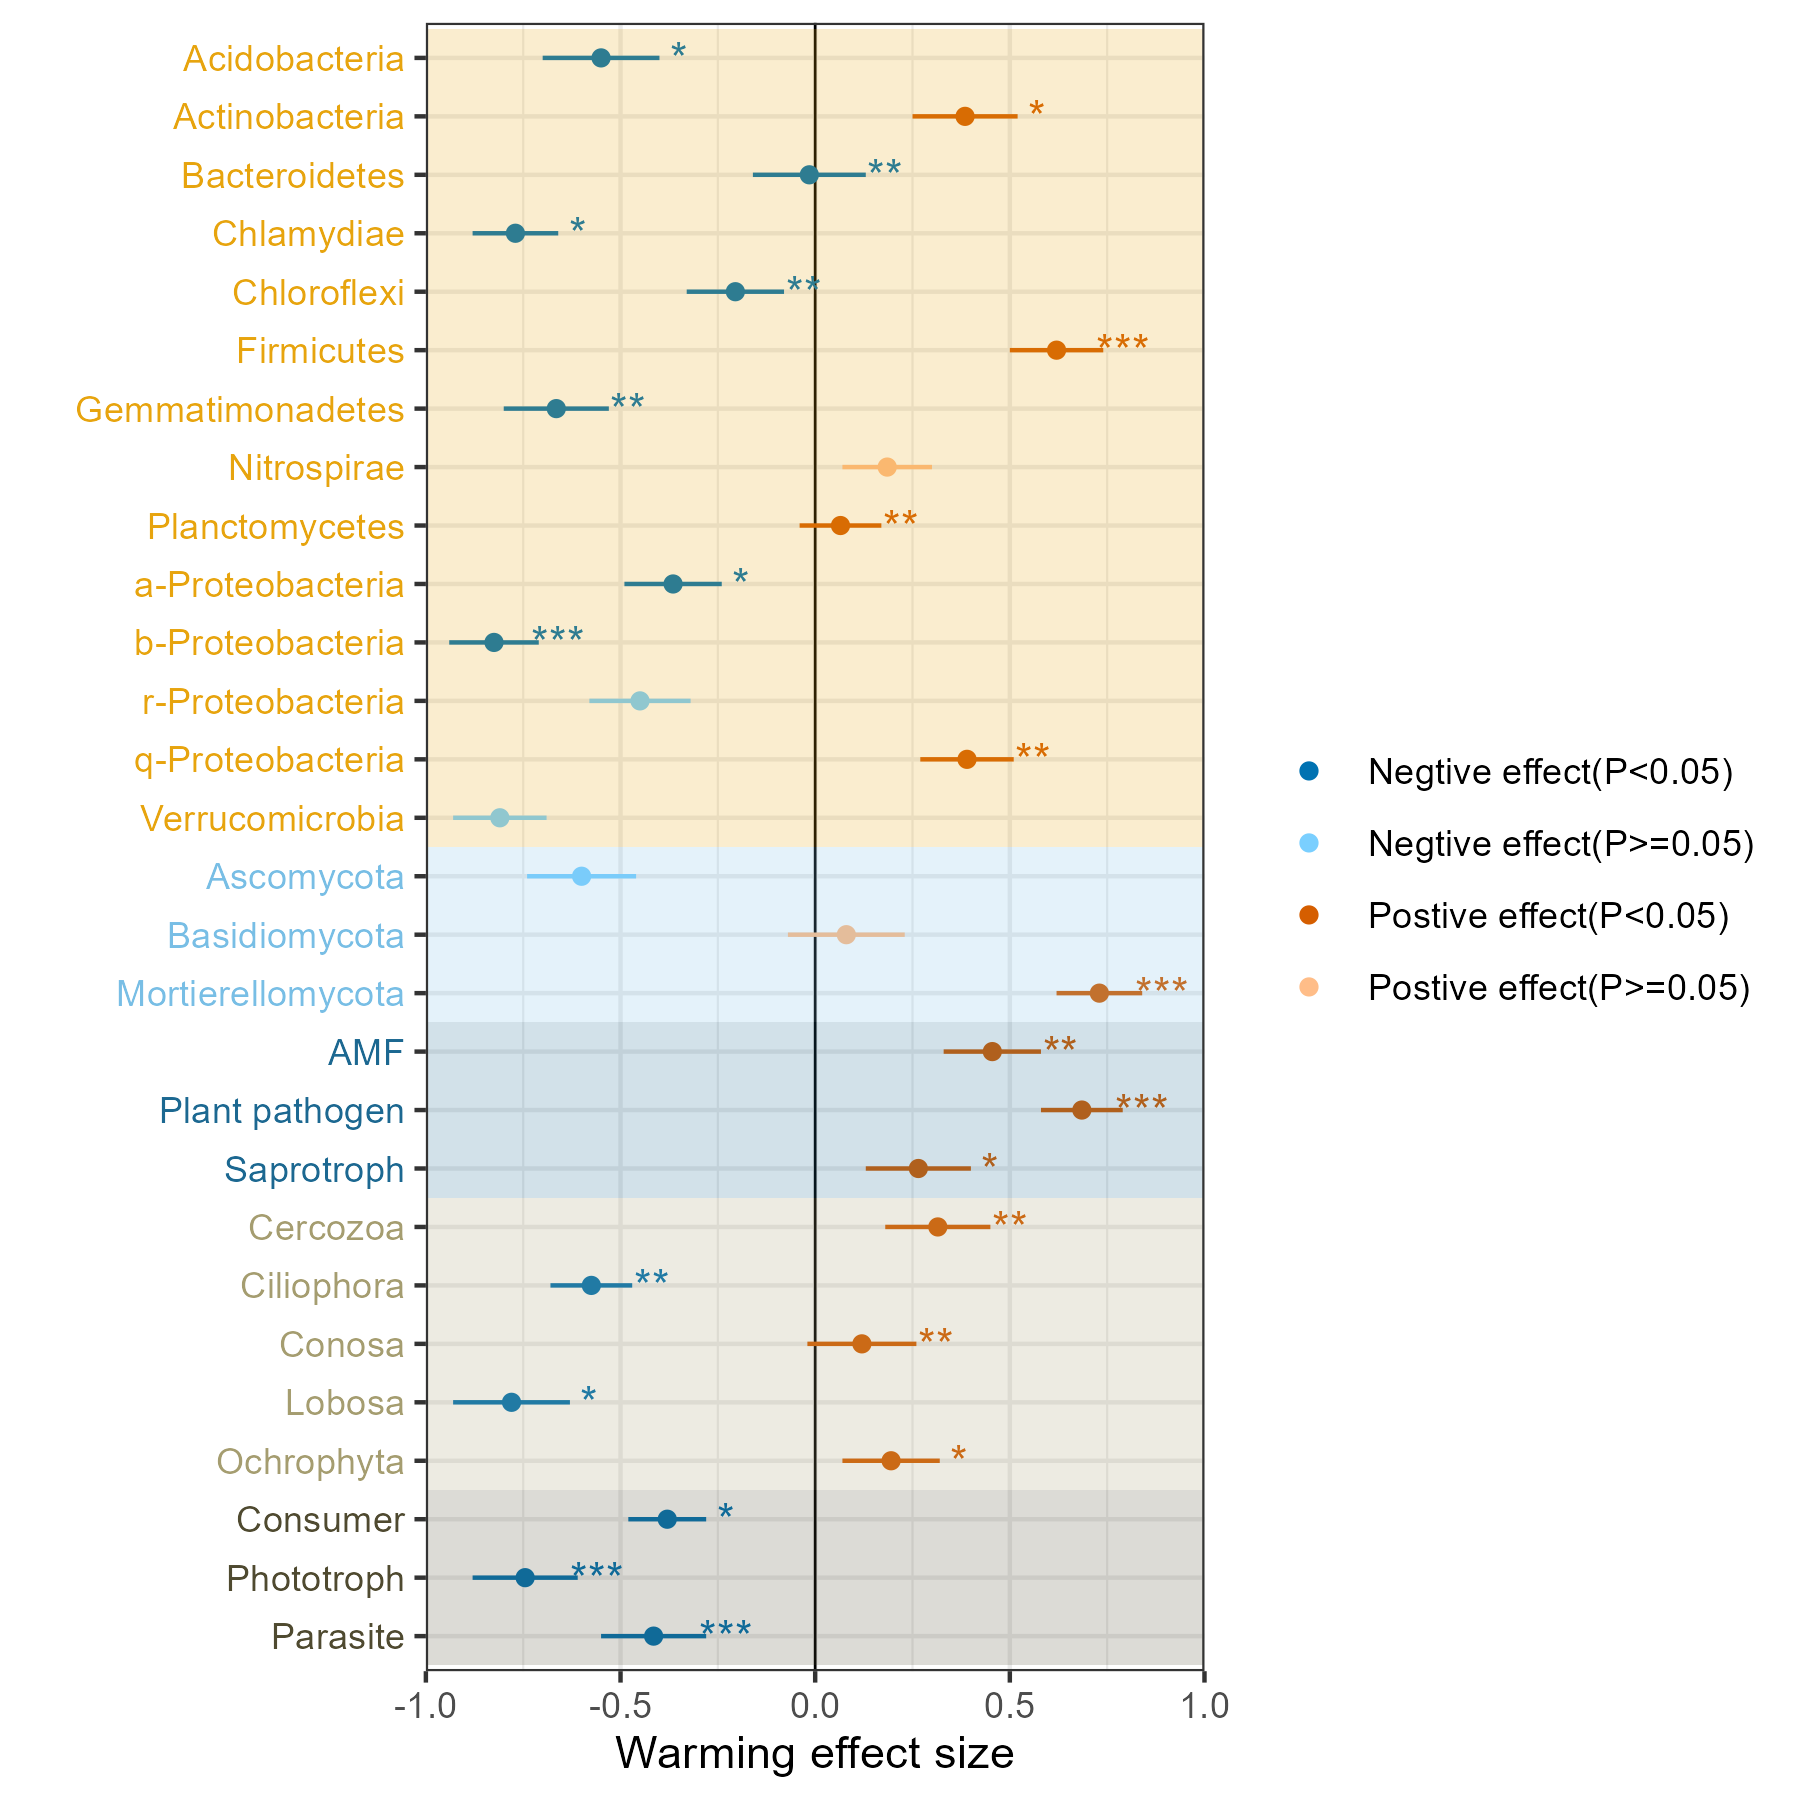
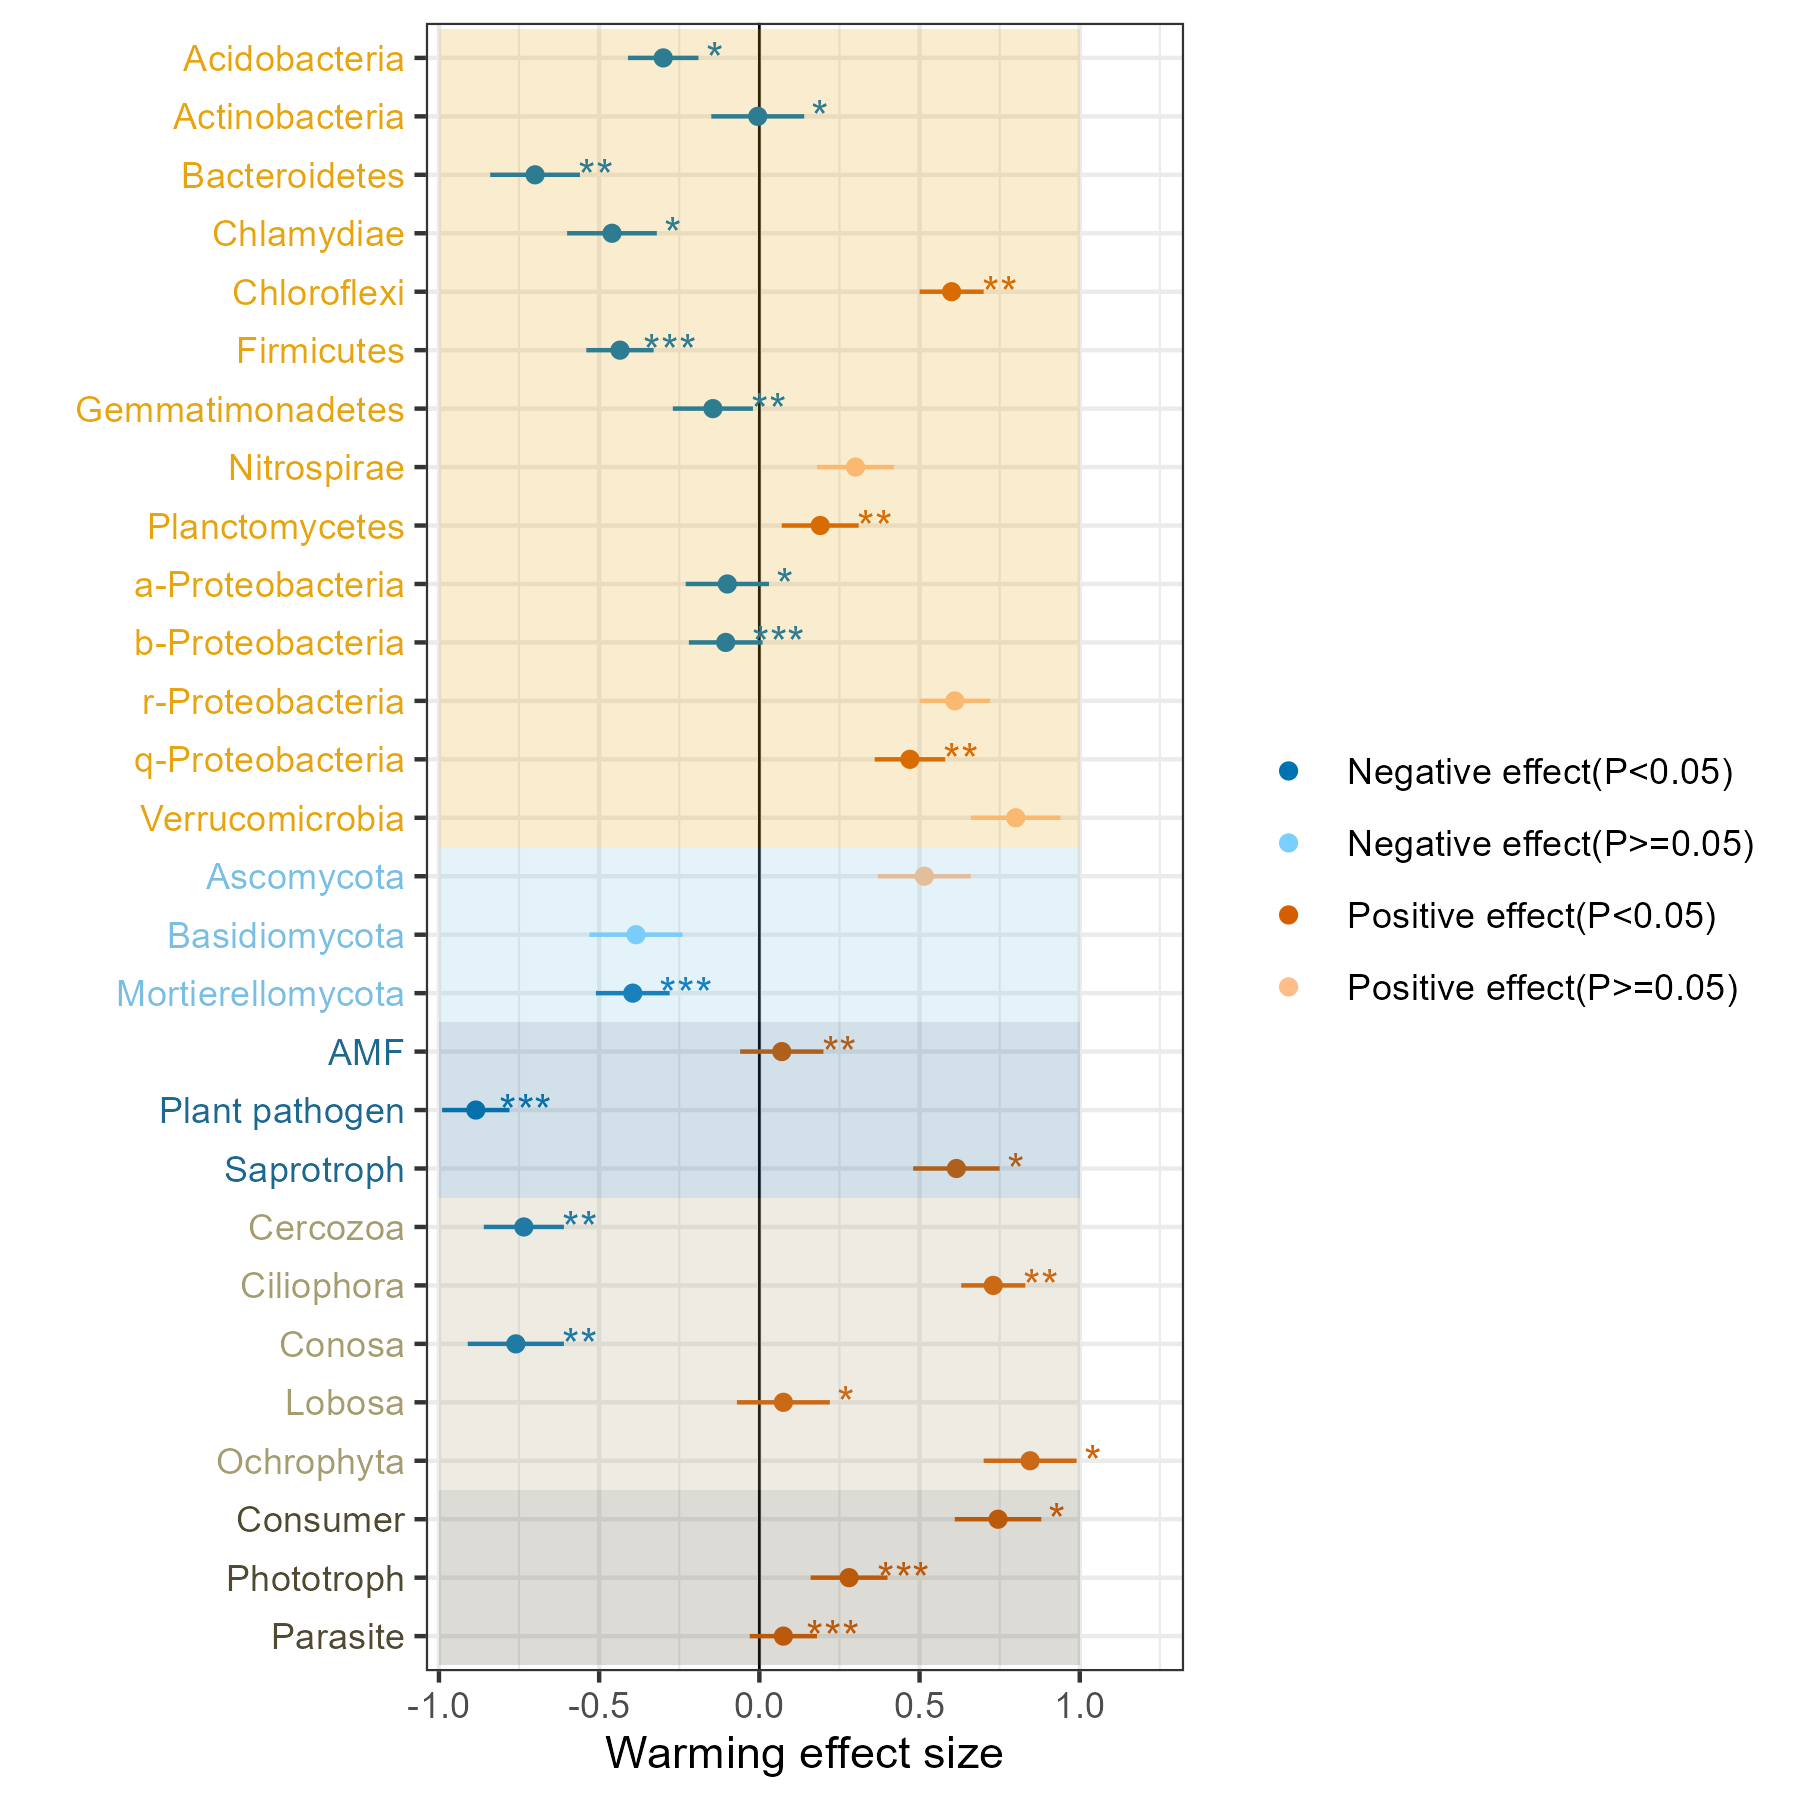
fix(forest-effect-dotplot): clean public text and repair preview

diff --git a/modules/forest-effect-dotplot/docs/doc-description.md b/modules/forest-effect-dotplot/docs/doc-description.md
@@ -1,22 +1,14 @@
 # 增温效应森林点距图
 
-## Purpose
+按微生物类群展示增温效应大小、区间和显著性。效应值由脚本随机生成。
 
-按类群展示增温效应大小、区间和显著性。
+## 应用
 
-## Visual structure
+-已有各类群效应估计和区间时，用翻转点距图比较正负效应。
+-不适合真正的 meta-analysis 森林图。
 
-翻转坐标的点距图；背景色带分组；颜色区分正负效应与显著性。
+## 数据
 
-## Data requirements
+rownames.csv 提供 28 个类群名。
 
-rownames.csv 提供 28 个类群名；效应值和 p 标记由脚本随机生成。
-
-## Recommended use
-
-本地查看该图类型的 ggplot2 实现；需要同类布局时可改数据后重跑 `code/organized.R`。
-
-## Limitations
-
-- min/med/max 与显著性符号每次运行都会变，预览只代表一次随机实现。
-- 不是原文统计模型复现。
+仅提供绘图示例；上游分析与科学结论未验证。

diff --git a/modules/forest-effect-dotplot/README.md b/modules/forest-effect-dotplot/README.md
@@ -2,4 +2,18 @@
 
 按微生物类群展示增温效应大小、区间和显著性。效应值由脚本随机生成。
 
-This module is an Open Figure Modules submission prepared from a Local Published release. SFL does not execute the code.
+## 应用
+
+-已有各类群效应估计和区间时，用翻转点距图比较正负效应。
+-不适合真正的 meta-analysis 森林图。
+
+## 数据
+
+rownames.csv 提供 28 个类群名。
+
+仅提供绘图示例；上游分析与科学结论未验证。
+
+
+## 运行核验
+
+发布者已使用现有 Pixi R 环境执行本模块绘图入口并检查本次生成预览。仅演示绘图层，未验证上游分析或科学结论。

diff --git a/modules/forest-effect-dotplot/description.md b/modules/forest-effect-dotplot/description.md
@@ -1,14 +1,14 @@
 # 增温效应森林点距图
 
-## 需求描述
-
 按微生物类群展示增温效应大小、区间和显著性。效应值由脚本随机生成。
 
-## 应用场景
+## 应用
 
 -已有各类群效应估计和区间时，用翻转点距图比较正负效应。
 -不适合真正的 meta-analysis 森林图。
 
-## 数据特征
+## 数据
 
 rownames.csv 提供 28 个类群名。
+
+仅提供绘图示例；上游分析与科学结论未验证。
